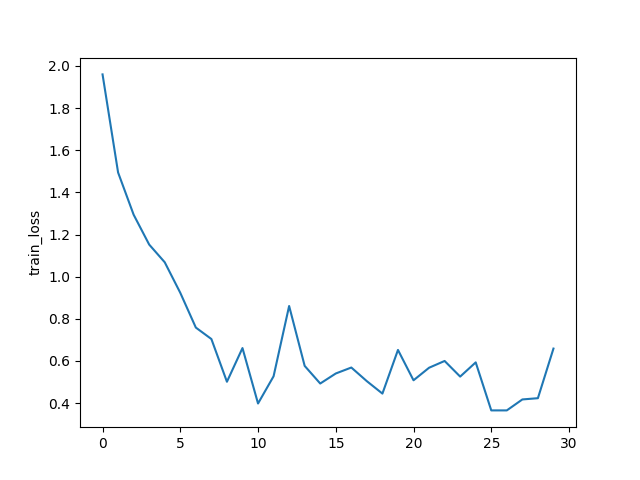
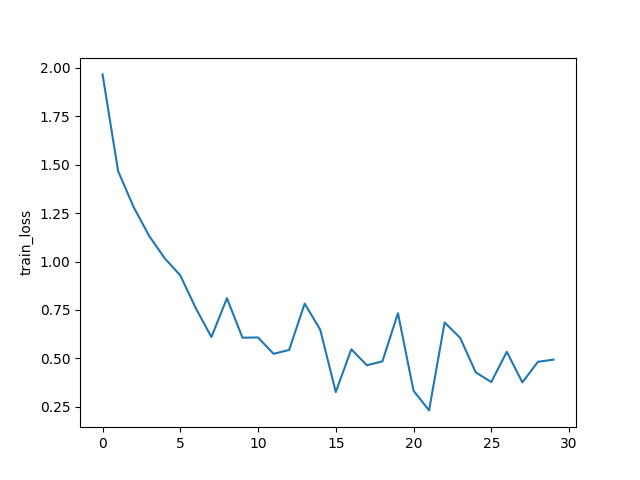
Computational task size definition has been added

diff --git a/main_fed (copy).py b/main_fed (copy).py
@@ -22,11 +22,7 @@ import signal
 import sys
 import atexit
 
-from utils import can_complete_task, random_delay
-import random
 
-MIN_RATIO = 0.6
-MAX_RATIO = 1.2
 
 ##################################################
 ######## SETUP ###################################
@@ -91,7 +87,7 @@ if __name__ == '__main__':
     # idxs_users = np.random.choice(range(args.num_users), k, replace=False)
     #idxs_users, compress_ratio = scheduler.newUsers(k)
 
-    # This provides to generate a summary of the data when the program is interrupted
+    # Signal handler for interruption (Ctrl+C)
     def signal_handler(signum, frame):
         scheduler.logger.generate_summary()
         sys.exit(0)
@@ -107,29 +103,14 @@ if __name__ == '__main__':
         w_locals = [w_glob for i in range(args.num_users)]    
 
 
-    # Computational capacities for each user
-    # Calculate task_size for each user
-    task_sizes = [len(dict_users[idx]) for idx in range(args.num_users)]
-    # Find an avarage task size
-    avg_task_size = sum(task_sizes) / len(task_sizes)
-
-    # Generate random computational capacities for each user between MIN_RATIO and MAX_RATIO of the average task size
-    computational_capacities = [random.randint(int(MIN_RATIO * avg_task_size), int(MAX_RATIO * avg_task_size)) for _ in range(args.num_users)]
- 
-    # Global time tracker
-    global_time_tracker = 0
-
     ##################################################
     ##### MAIN LOOP ##################################
     for iter in range(args.epochs):
-        # Print current round
-        print("Round: " + str(iter))
-        
         loss_locals = []
         if not args.all_clients:
             w_locals = []
 
-
+        
         ##################################################
         ##### UPLINk SCHEDULING ##########################
         #k = max(int(args.frac * args.num_users), 1) # Numer of users
@@ -150,47 +131,15 @@ if __name__ == '__main__':
 
             # list of users which completed training within time & dataset sizes
         
-        # User selection
         idxs_users, compress_ratio = scheduler.newUsers(k, iter) # Iter is the current round number, used for logging
-        # Track selected users
-        selected_idxs = set(idxs_users)
-        
-        # Track users that couldn't complete the task
-        idx_to_remove = []
-
-        selectedUsers[idxs_users] += 1
-        
         if args.sched != "BN2":
             print("idxs_users: " + str(idxs_users))
             print("compress_ratio: " + str(compress_ratio))
-
+            selectedUsers[idxs_users] += 1
 
         for idx in idxs_users:
             #dict_users = [[1 ,6, 10, 12], [x, y, z], [a, b,c]]
             #data_points = [1, 10]
-            # Get capacity of user
-            min_capacity = computational_capacities[idx] * MIN_RATIO
-            
-            user_capacity = computational_capacities[idx]
-            task_size = len(dict_users[idx])
-            
-            #local = LocalUpdate(args=args, dataset=dataset_train, idxs=dict_users[idx])
-            
-            # Check if user can complete task
-            if not can_complete_task(user_capacity, task_size):
-                print(f"User {idx} couldn't complete the task due to insufficient capacity.")
-                idx_to_remove.append(idx)
-            
-        # Assign new user for unsuccessful users
-        for removed_idx in idx_to_remove:
-            while True:
-                new_idx = np.random.choice(range(args.num_users))
-                if new_idx not in selected_idxs:
-                    selected_idxs.add(new_idx)
-                    idxs_users = [new_idx if x == removed_idx else x for x in idxs_users]
-                    break
-        
-        for idx in idxs_users:
             local = LocalUpdate(args=args, dataset=dataset_train, idxs=dict_users[idx])
             w, loss = local.train(net=copy.deepcopy(net_glob).to(args.device))
             if args.all_clients:
@@ -198,13 +147,11 @@ if __name__ == '__main__':
             else:
                 w_locals.append(copy.deepcopy(w))
             loss_locals.append(copy.deepcopy(loss))
-
-
-        # update global weights
-        # added w_global to parameters
+            # update global weights
+            # added w_global to parameters
         w_glob = FedAvg(w_locals, w_glob, compress_ratio, k, args.comp, args.sched, args.blocks)
 
-        # copy weight to net_glob
+            # copy weight to net_glob
         net_glob.load_state_dict(w_glob)
 
         # print loss

diff --git a/utils/options (copy).py b/utils/options (copy).py
@@ -43,24 +43,5 @@ def args_parser():
     parser.add_argument('--verbose', action='store_true', help='verbose print')
     parser.add_argument('--seed', type=int, default=1, help='random seed (default: 1)')
     parser.add_argument('--all_clients', action='store_true', help='aggregation over all clients')
-    
-    ##################################################
-    
-    # adding new computational capacity argument for each user
-    parser.add_argument('--computational_capacity', type=float, default=1.0, help="computational capacity for each user")
-    
-    # adding maximum number of users that can be training at the same time
-    parser.add_argument('--number_of_max_user', type=int, default=5, help="max number of users that can train simultaneously")
-    
-    # adding time cost arguments for specific actions
-    parser.add_argument('--user_elimination_time', type=float, default=0.1, help="time cost for user elimination")
-    parser.add_argument('--new_user_selection_time', type=float, default=0.2, help="time cost for selecting a new user")
-
-    # adding delay related arguments
-    parser.add_argument('--random_delay_prob', type=float, default=0.1, help="probability of applying delay to a user")
-    parser.add_argument('--max_delay', type=float, default=0.5, help="maximum delay time for a user")
-    
-    ##################################################
-
     args = parser.parse_args()
     return args

diff --git a/utils/can_complete_task.py b/utils/can_complete_task.py
@@ -1,0 +1,11 @@
+def can_complete_task(user_capacity, task_size):
+    """
+    Parameters:
+    - user_capacity: 
+    - task_size: S
+
+    Returns:
+    - True if user can complete the task, False otherwise
+    """
+        
+    return user_capacity >= task_size

diff --git a/utils/scheduling.py b/utils/scheduling.py
@@ -7,7 +7,6 @@ from datetime import datetime
 import torch
 import pandas as pd
 
-
 ### Scheduler Class
 class Scheduler:
     def __init__(self, m, dict_users, dataset_train, SNR, mode='old', comp='None', model_name='Unknown', dataset='Unknown'):

diff --git a/utils/random_delay.py b/utils/random_delay.py
@@ -1,0 +1,6 @@
+import random
+
+def random_delay():
+    delay = random.random() * 3
+    
+    return delay
